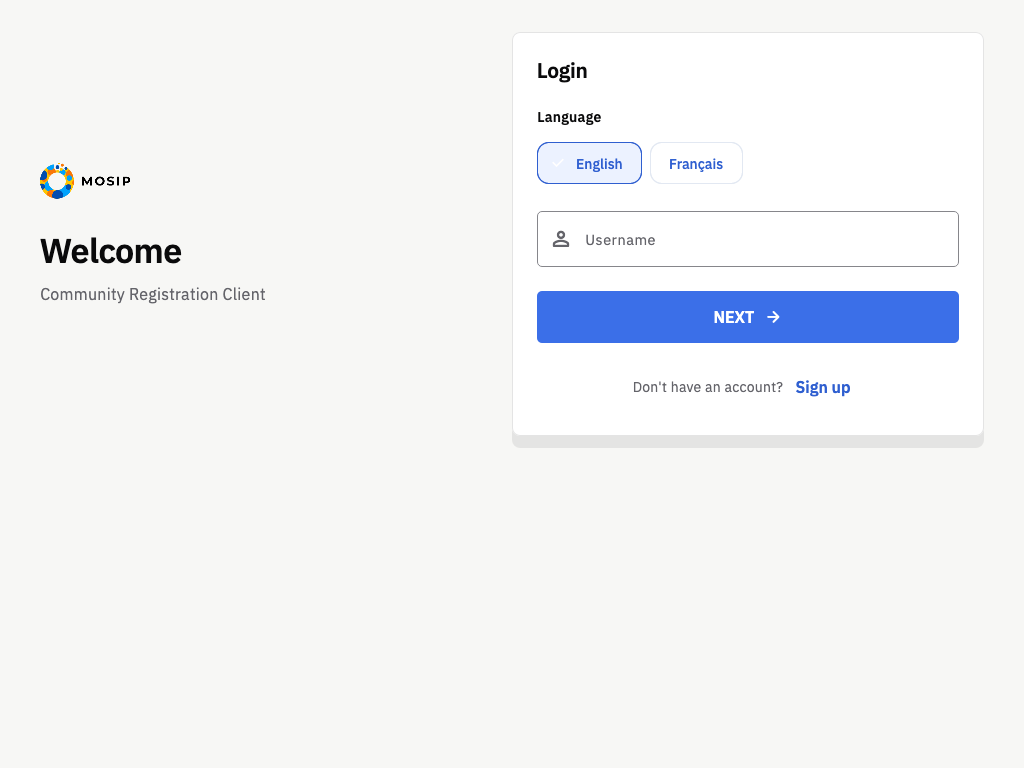
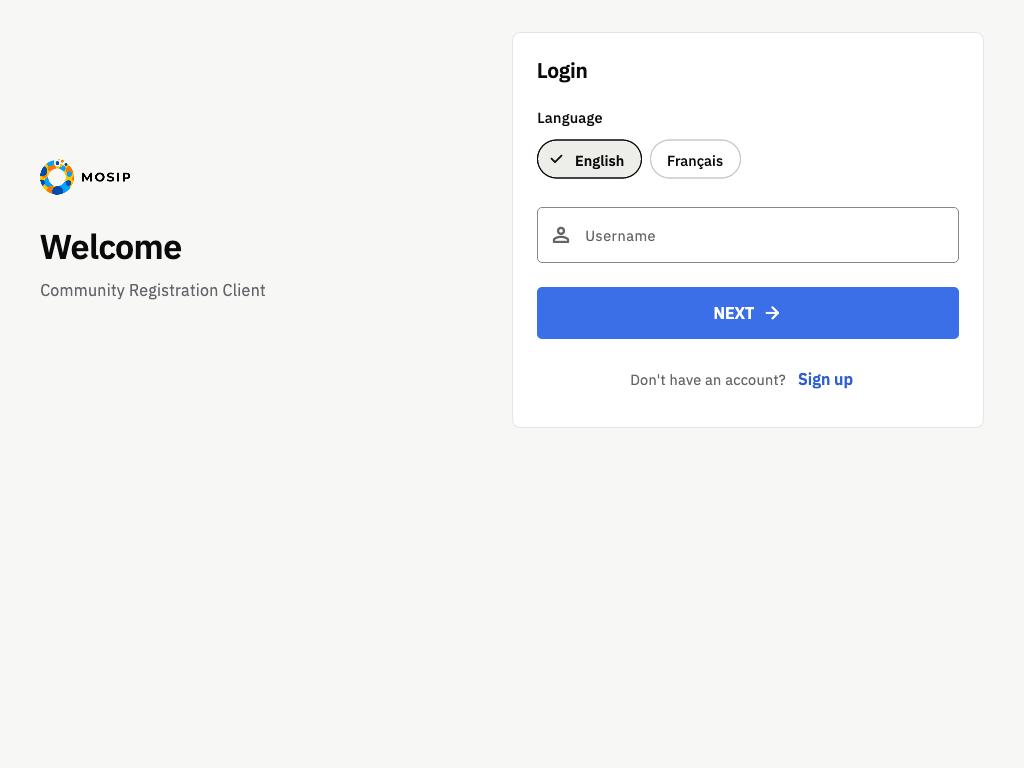
feat(ui): restyle login to the Desktop sign-in
Flat hairline panel, label/field/button tokens, pill language chips with a
check mark, readable sync dialogs that grow with text size (were fixed boxes
with 8-10px text) plus a determinate bar under the existing 'Sync n of 7'.
SectionLabel no longer upper-cases text, keeping ui-test @text locators.

diff --git a/lib/ui/login_page.dart b/lib/ui/login_page.dart
@@ -11,7 +11,6 @@ import 'dart:developer';
 
 import 'package:flutter/material.dart';
 import 'package:flutter/services.dart';
-import 'package:flutter_screenutil/flutter_screenutil.dart';
 import 'package:flutter_svg/flutter_svg.dart';
 import 'package:provider/provider.dart';
 
@@ -157,13 +156,12 @@ class _LoginPageState extends State<LoginPage> with WidgetsBindingObserver {
         child: _loginComponent(),
         footer: Text(appLocalizations.info_text,
             textAlign: TextAlign.center,
-            style: const TextStyle(
-                fontSize: 13, height: 1.5, color: RegistrationTheme.muted)),
+            style: RegistrationTheme.small),
       ),
       if (isMachineKeysDialogOpen)
         Positioned.fill(
             child: Container(
-                color: Colors.black54,
+                color: RegistrationTheme.scrim,
                 child: Center(
                     child: MachineKeys(
                         onCloseComponent: _toggleMachineKeysDialog)))),
@@ -380,27 +378,18 @@ class _LoginPageState extends State<LoginPage> with WidgetsBindingObserver {
 
   Widget _loginComponent() {
     return Container(
-      padding: const EdgeInsets.all(24),
-      decoration: RegistrationTheme.surface(shadow: true),
+      padding: const EdgeInsets.all(RegistrationTheme.s6),
+      decoration: RegistrationTheme.surface(),
       child: Column(
         crossAxisAlignment: CrossAxisAlignment.start,
         mainAxisAlignment: MainAxisAlignment.center,
         children: [
-          SizedBox(
-            height: 4,
-          ),
           if (!context.watch<AuthProvider>().isNetworkPresent) ...[
             Text(
               appLocalizations.login_text,
-              style: const TextStyle(
-                  fontFamily: 'IBMPlexSans',
-                  fontSize: 24,
-                  fontWeight: FontWeight.w600,
-                  color: RegistrationTheme.ink),
+              style: RegistrationTheme.title,
             ),
-            SizedBox(
-              height: 24,
-            ),
+            const SizedBox(height: RegistrationTheme.s5),
           ],
           !context.watch<AuthProvider>().isValidUser &&
                   !context.watch<AuthProvider>().isNetworkPresent
@@ -512,33 +501,27 @@ class _LoginPageState extends State<LoginPage> with WidgetsBindingObserver {
           child: Align(
             alignment: Alignment.center,
             child: Container(
-              height: isMobile && isMobileSize ? 210.h : 280.h,
-              width: isMobile && isMobileSize ? 210.w : 280.w,
-              decoration: BoxDecoration(
-                  borderRadius: BorderRadius.circular(15), color: pureWhite),
+              constraints: const BoxConstraints(maxWidth: 360),
+              margin: const EdgeInsets.all(RegistrationTheme.s6),
+              decoration: RegistrationTheme.surface(shadow: true),
               child: Padding(
-                padding: const EdgeInsets.all(25.0),
+                padding: const EdgeInsets.all(RegistrationTheme.s6),
                 child: Column(
+                  mainAxisSize: MainAxisSize.min,
                   crossAxisAlignment: CrossAxisAlignment.center,
-                  mainAxisAlignment: MainAxisAlignment.center,
                   children: [
                     SizedBox(
-                      height: isMobile && isMobileSize ? 40.h : 100.h,
-                      width: isMobile && isMobileSize ? 40.w : 100.w,
+                      height: 56,
+                      width: 56,
                       child: syncProvider.isAllSyncSuccessful()
                           ? SvgPicture.asset(
                               "assets/svg/Success Message Icon.svg")
                           : SvgPicture.asset(
                               "assets/svg/Failed Message Icon.svg"),
                     ),
-                    SizedBox(
-                      height: isMobile ? 2.h : 5.h,
-                    ),
+                    const SizedBox(height: RegistrationTheme.s4),
                     DefaultTextStyle(
-                      style: TextStyle(
-                          fontSize: isMobile && isMobileSize ? 10 : 18,
-                          color: Colors.black87,
-                          fontWeight: FontWeight.bold),
+                      style: RegistrationTheme.heading,
                       child: Text(
                         syncProvider.isAllSyncSuccessful()
                             ? appLocalizations.sync_completed_succesfully
@@ -546,12 +529,9 @@ class _LoginPageState extends State<LoginPage> with WidgetsBindingObserver {
                         textAlign: TextAlign.center,
                       ),
                     ),
-                    const SizedBox(),
+                    const SizedBox(height: RegistrationTheme.s1),
                     DefaultTextStyle(
-                      style: TextStyle(
-                          fontSize: isMobile && isMobileSize ? 8 : 12,
-                          color: const Color.fromARGB(221, 80, 79, 79),
-                          fontWeight: FontWeight.w900),
+                      style: RegistrationTheme.small,
                       child: Text(
                         syncProvider.isAllSyncSuccessful()
                             ? appLocalizations.sync_completed_message
@@ -580,12 +560,12 @@ class _LoginPageState extends State<LoginPage> with WidgetsBindingObserver {
           child: Align(
             alignment: Alignment.center,
             child: Container(
-              height: isMobile && isMobileSize ? 210.h : 280.h,
-              width: isMobile && isMobileSize ? 210.w : 280.w,
-              decoration: BoxDecoration(
-                  borderRadius: BorderRadius.circular(15), color: pureWhite),
+              constraints: const BoxConstraints(maxWidth: 360),
+              margin: const EdgeInsets.all(RegistrationTheme.s6),
+              padding: const EdgeInsets.all(RegistrationTheme.s6),
+              decoration: RegistrationTheme.surface(shadow: true),
               child: Column(
-                mainAxisAlignment: MainAxisAlignment.center,
+                mainAxisSize: MainAxisSize.min,
                 children: [
                   Stack(
                     alignment: Alignment.center,
@@ -593,11 +573,11 @@ class _LoginPageState extends State<LoginPage> with WidgetsBindingObserver {
                       Image.asset(
                         appIconLogoOnly,
                         fit: BoxFit.scaleDown,
-                        height: isMobile && isMobileSize ? 35.h : 90.h,
-                        width: isMobile && isMobileSize ? 35.w : 90.w,
+                        height: 40,
+                        width: 40,
                       ),
                       Transform.scale(
-                        scale: isMobile ? 1.4 : 2.8,
+                        scale: 1.6,
                         child: Center(
                           child: ColorfulCircularProgressIndicator(
                             colors: appColors,
@@ -609,18 +589,27 @@ class _LoginPageState extends State<LoginPage> with WidgetsBindingObserver {
                       ),
                     ],
                   ),
-                  SizedBox(
-                    height: isMobile ? 10.h : 20.h,
-                  ),
+                  const SizedBox(height: RegistrationTheme.s8),
                   DefaultTextStyle(
-                      style: TextStyle(
-                          fontSize: isMobile && isMobileSize ? 12 : 15,
-                          color: const Color.fromARGB(221, 80, 79, 79),
-                          fontWeight: FontWeight.w900),
+                      style: RegistrationTheme.bodyStrong,
                       child: Consumer<SyncProvider>(
                         builder: (context, syncP, child) {
-                          return Text(
-                              "Sync ${syncP.currentSyncProgress.toString()} of 7 ");
+                          return Column(children: [
+                            Text(
+                                "Sync ${syncP.currentSyncProgress.toString()} of 7 "),
+                            const SizedBox(height: RegistrationTheme.s3),
+                            ExcludeSemantics(
+                              child: ClipRRect(
+                                borderRadius:
+                                    BorderRadius.circular(RegistrationTheme.r),
+                                child: LinearProgressIndicator(
+                                    minHeight: 4,
+                                    value: (syncP.currentSyncProgress / 7)
+                                        .clamp(0.0, 1.0)
+                                        .toDouble()),
+                              ),
+                            ),
+                          ]);
                         },
                       )),
                 ],

diff --git a/lib/ui/widgets/username_component.dart b/lib/ui/widgets/username_component.dart
@@ -48,14 +48,10 @@ class _UsernameComponentState extends State<UsernameComponent> {
         child: Column(
       crossAxisAlignment: CrossAxisAlignment.stretch,
       children: [
-        Text(l.language,
-            style: const TextStyle(
-                fontSize: 14,
-                fontWeight: FontWeight.w600,
-                color: RegistrationTheme.ink)),
-        const SizedBox(height: 12),
+        Text(l.language, style: RegistrationTheme.fieldLabel),
+        const SizedBox(height: RegistrationTheme.s2),
         _getLanguageRowList(),
-        const SizedBox(height: 24),
+        const SizedBox(height: RegistrationTheme.s6),
         TextField(
           autofillHints: const [AutofillHints.username],
           textInputAction: TextInputAction.next,
@@ -66,26 +62,26 @@ class _UsernameComponentState extends State<UsernameComponent> {
               labelText: l.username,
               hintText: l.enter_username,
               prefixIcon: const Icon(Icons.person_outline_rounded)),
-          style: const TextStyle(fontSize: 16, color: RegistrationTheme.ink),
+          style: RegistrationTheme.body,
           onChanged: (v) => widget.onChanged(v),
         ),
-        const SizedBox(height: 24),
+        const SizedBox(height: RegistrationTheme.s6),
         ElevatedButton(
             onPressed: widget.isDisabled ? null : widget.onTap,
             child: Row(mainAxisAlignment: MainAxisAlignment.center, children: [
               Text(l.next_button),
-              const SizedBox(width: 10),
-              const Icon(Icons.arrow_forward_rounded, size: 18),
+              const SizedBox(width: RegistrationTheme.s2),
+              const Icon(Icons.arrow_forward_rounded,
+                  size: RegistrationTheme.iconInline),
             ])),
         if (widget.onTapSignup != null) ...[
-          const SizedBox(height: 20),
+          const SizedBox(height: RegistrationTheme.s4),
           Wrap(
               alignment: WrapAlignment.center,
               crossAxisAlignment: WrapCrossAlignment.center,
               children: [
                 Text(l.signup_no_account,
-                    style: const TextStyle(
-                        fontSize: 14, color: RegistrationTheme.muted)),
+                    style: RegistrationTheme.small),
                 TextButton(
                     key: const ValueKey<String>('signup-link'),
                     onPressed: widget.onTapSignup,

diff --git a/lib/ui/widgets/language_component.dart b/lib/ui/widgets/language_component.dart
@@ -6,7 +6,7 @@
 */
 
 import 'package:flutter/material.dart';
-import 'package:registration_client/utils/app_config.dart';
+import 'package:registration_client/ui/theme/registration_theme.dart';
 
 class LanguageComponent extends StatefulWidget {
   const LanguageComponent({
@@ -37,16 +37,25 @@ class _LanguageComponentState extends State<LanguageComponent> {
       selected: widget.isSelected || widget.isFreezed,
       onSelected:
           widget.isDisabled || widget.isFreezed ? null : (_) => widget.onTap(),
-      selectedColor: const Color(0xFFECF2FF),
-      backgroundColor: Colors.white,
-      labelStyle: TextStyle(
-          fontSize: 14,
-          fontWeight: FontWeight.w500,
-          color: widget.isDisabled ? appBlackShade3 : appSolidPrimary),
+      // Desktop chip: pill, hairline; selected = sunken fill, ink border and
+      // a check mark (not colour alone).
+      selectedColor: RegistrationTheme.sunken,
+      backgroundColor: RegistrationTheme.card,
+      labelStyle: RegistrationTheme.small.copyWith(
+          fontWeight: widget.isSelected || widget.isFreezed
+              ? FontWeight.w600
+              : FontWeight.w500,
+          color: widget.isDisabled
+              ? RegistrationTheme.muted
+              : RegistrationTheme.ink),
       side: BorderSide(
-          color: widget.isSelected ? appSolidPrimary : const Color(0xFFE2E8F2)),
-      shape: RoundedRectangleBorder(borderRadius: BorderRadius.circular(12)),
-      padding: const EdgeInsets.symmetric(horizontal: 10, vertical: 10),
+          color: widget.isSelected || widget.isFreezed
+              ? RegistrationTheme.ink
+              : RegistrationTheme.lineStrong),
+      shape: RoundedRectangleBorder(
+          borderRadius: BorderRadius.circular(RegistrationTheme.rPill)),
+      padding: const EdgeInsets.symmetric(
+          horizontal: RegistrationTheme.s2, vertical: RegistrationTheme.s2),
       materialTapTargetSize: MaterialTapTargetSize.padded,
     );
   }

diff --git a/lib/ui/widgets/password_component.dart b/lib/ui/widgets/password_component.dart
@@ -67,25 +67,25 @@ class _PasswordComponentState extends State<PasswordComponent> {
                 obscured: _obscurePassword,
                 onToggle: () =>
                     setState(() => _obscurePassword = !_obscurePassword))),
-        style: const TextStyle(fontSize: 16, color: RegistrationTheme.ink),
+        style: RegistrationTheme.body,
       ),
-      const SizedBox(height: 12),
+      const SizedBox(height: RegistrationTheme.s2),
       Align(
           alignment: AlignmentDirectional.centerEnd,
           child: TextButton(
               onPressed: isLoggingIn ? null : onTapForgotPassword,
               child: Text(l.forgot_password))),
-      const SizedBox(height: 12),
+      const SizedBox(height: RegistrationTheme.s2),
       ElevatedButton(
           onPressed: isDisabled || isLoggingIn ? null : onTapLogin,
           child: isLoggingIn
               ? const SizedBox(
-                  width: 22,
-                  height: 22,
+                  width: RegistrationTheme.iconInline,
+                  height: RegistrationTheme.iconInline,
                   child: CircularProgressIndicator(
-                      strokeWidth: 2, color: Colors.white))
+                      strokeWidth: 2, color: RegistrationTheme.onAccent))
               : Text(l.login_button)),
-      const SizedBox(height: 12),
+      const SizedBox(height: RegistrationTheme.s3),
       OutlinedButton(
           onPressed: isLoggingIn ? null : onTapBack,
           child: Text(l.back_button)),

diff --git a/lib/ui/theme/components.dart b/lib/ui/theme/components.dart
@@ -8,7 +8,8 @@ import 'package:registration_client/ui/theme/registration_theme.dart';
 
 typedef _T = RegistrationTheme;
 
-/// Upper-case tracked section label ("REGISTRATION TASKS").
+/// Tracked section label (Desktop mono label). The text is not upper-cased:
+/// ui-test finds elements by @text, so existing strings must stay as-is.
 class SectionLabel extends StatelessWidget {
   const SectionLabel(this.text, {super.key, this.trailing});
   final String text;
@@ -17,7 +18,7 @@ class SectionLabel extends StatelessWidget {
   @override
   Widget build(BuildContext context) {
     final label = Semantics(
-        header: true, child: Text(text.toUpperCase(), style: _T.label));
+        header: true, child: Text(text, style: _T.label));
     if (trailing == null) return label;
     return Row(children: [Expanded(child: label), trailing!]);
   }

diff --git a/lib/ui/theme/registration_theme.dart b/lib/ui/theme/registration_theme.dart
@@ -143,6 +143,13 @@ class RegistrationTheme {
       fontWeight: FontWeight.w600,
       letterSpacing: 1.2,
       color: muted);
+  /// Label above a form field.
+  static const TextStyle fieldLabel = TextStyle(
+      fontFamily: fontFamily,
+      fontSize: 14.5,
+      height: 1.4,
+      fontWeight: FontWeight.w500,
+      color: ink);
   static const TextStyle button = TextStyle(
       fontFamily: fontFamily,
       fontSize: 16,
@@ -316,6 +323,7 @@ class RegistrationTheme {
         chipTheme: ChipThemeData(
             backgroundColor: card,
             selectedColor: sunken,
+            checkmarkColor: ink,
             side: const BorderSide(color: lineStrong),
             labelStyle: small.copyWith(color: ink),
             padding: const EdgeInsets.symmetric(horizontal: s3),

diff --git a/test/ui/modern_visual_review_test.dart b/test/ui/modern_visual_review_test.dart
@@ -71,8 +71,8 @@ void main() {
             title: 'Welcome',
             description: 'Community Registration Client',
             child: Container(
-                padding: const EdgeInsets.all(24),
-                decoration: RegistrationTheme.surface(shadow: true),
+                padding: const EdgeInsets.all(RegistrationTheme.s6),
+                decoration: RegistrationTheme.surface(),
                 child: Builder(
                     builder: (context) => Column(
                             crossAxisAlignment: CrossAxisAlignment.stretch,
